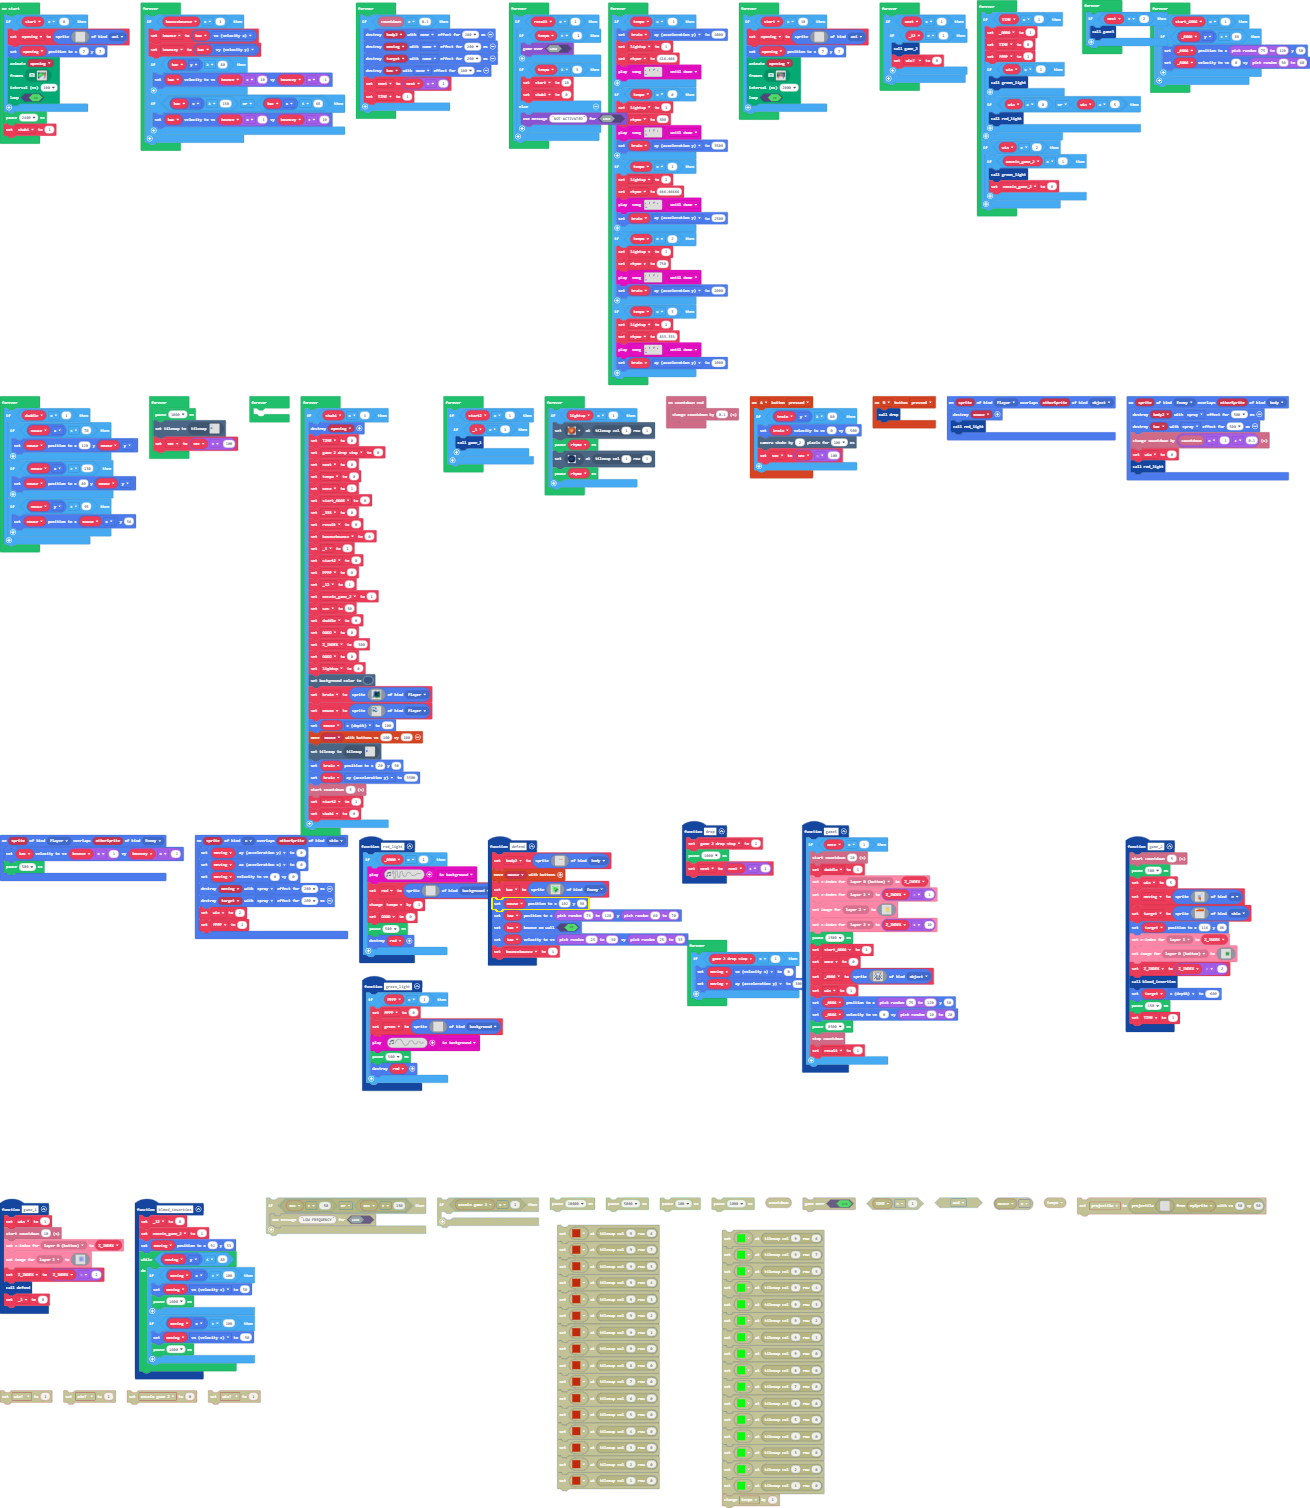
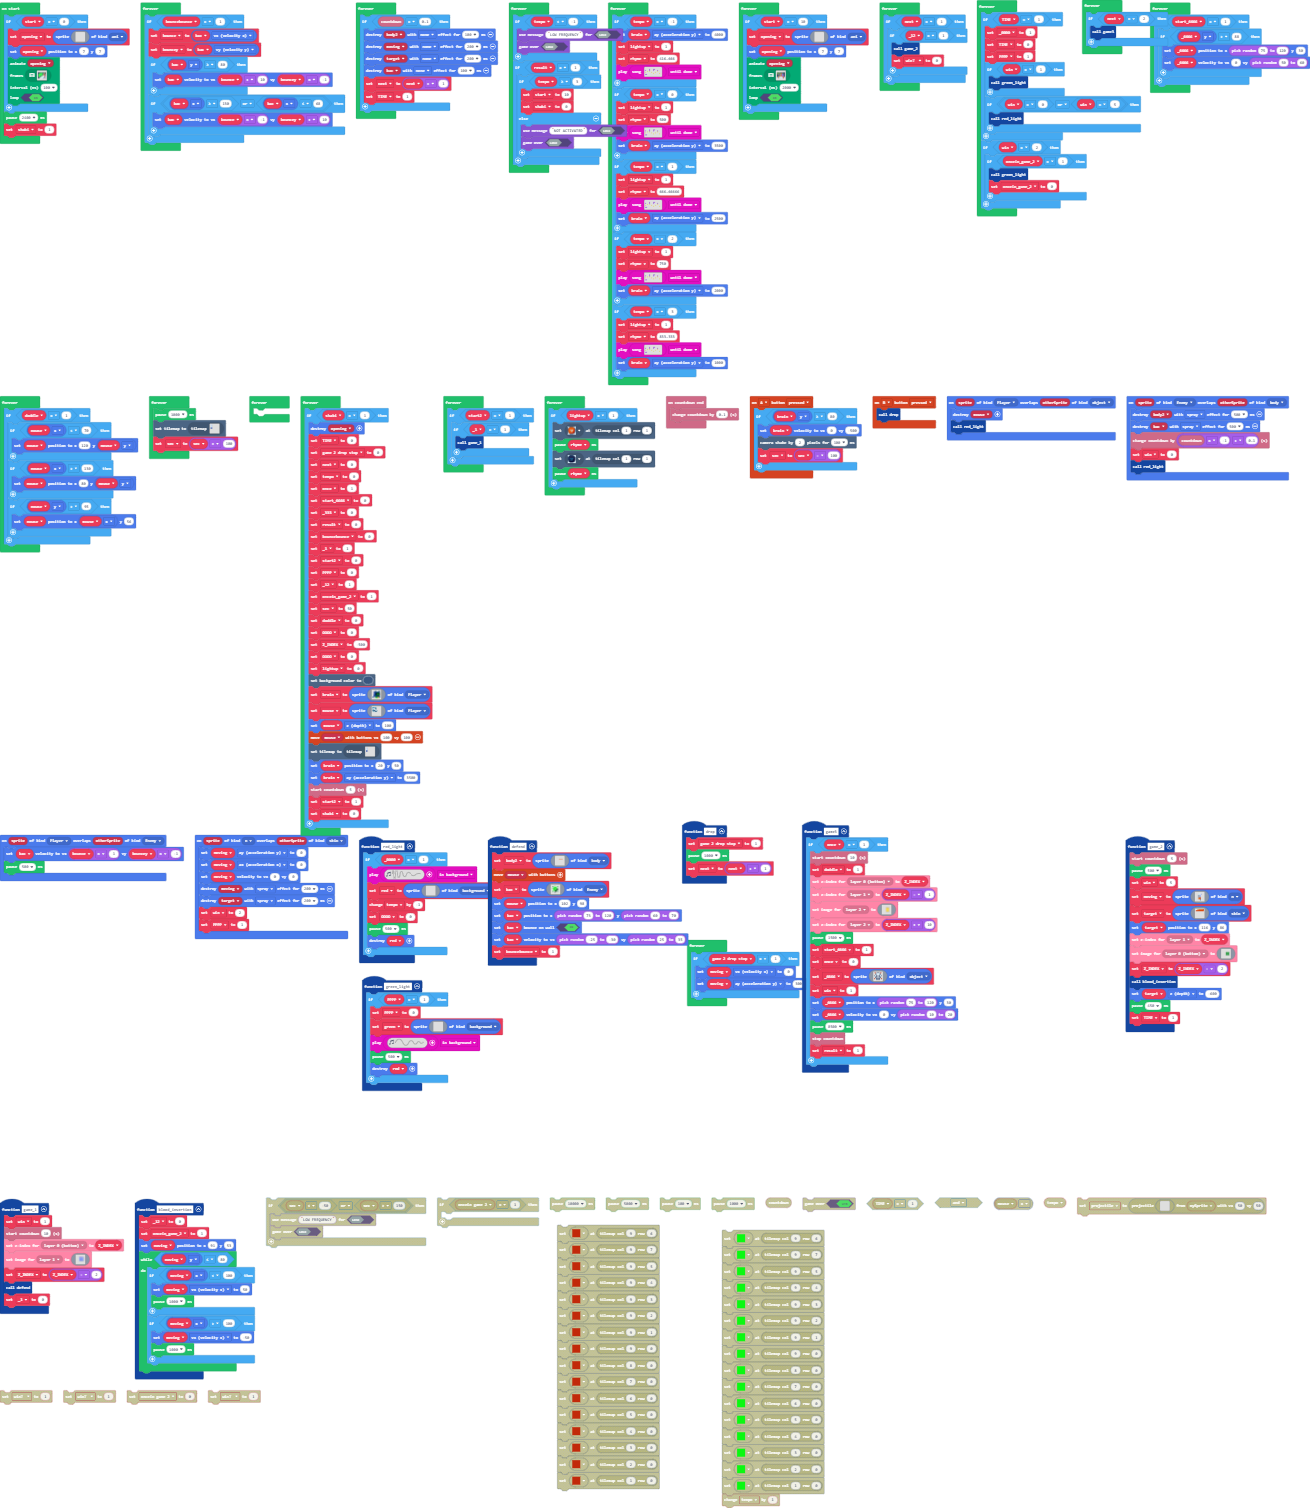
Update main.blocks, main.ts, tilemap.g.jres, tilemap.g.ts

Changed region(s): [[0.3664, 0.0, 0.4885, 0.1247], [0.1832, 0.8103, 0.3359, 0.8415]]

diff --git a/tilemap.g.ts b/tilemap.g.ts
@@ -654,6 +654,25 @@ namespace myTiles {
 . . . . . . . . . . . . . . . . 
 . . . . . . . . . . . . . . . . 
 `, [myTiles.transparency16], TileScale.Sixteen);
+            case "level30":
+            case "level30":return tiles.createTilemap(hex`1000100000000000000000000000000000000000000000000000000000000000000000000000000000000000000000000000000000000000000000000000000000000000000000000000000000000000000000000000000000000000000000000000000000000000000000000000000000000000000000000000000000000000000000000000000000000000000000000000000000000000000000000000000000000000000000000000000000000000000000000000000000000000000000000000000000000000000000000000000000000000000000000000000000000000000000000000000000000000000000000000000000000000000000000000000000000000`, img`
+. . . . . . . . . . . . . . . . 
+. . . . . . . . . . . . . . . . 
+. . . . . . . . . . . . . . . . 
+. . . . . . . . . . . . . . . . 
+. . . . . . . . . . . . . . . . 
+. . . . . . . . . . . . . . . . 
+. . . . . . . . . . . . . . . . 
+. . . . . . . . . . . . . . . . 
+. . . . . . . . . . . . . . . . 
+. . . . . . . . . . . . . . . . 
+. . . . . . . . . . . . . . . . 
+. . . . . . . . . . . . . . . . 
+. . . . . . . . . . . . . . . . 
+. . . . . . . . . . . . . . . . 
+. . . . . . . . . . . . . . . . 
+. . . . . . . . . . . . . . . . 
+`, [myTiles.transparency16], TileScale.Sixteen);
         }
         return null;
     })

diff --git a/main.ts b/main.ts
@@ -3593,15 +3593,17 @@ forever(function () {
     }
 })
 forever(function () {
+    if (tempo < -1) {
+        game.setGameOverMessage(false, "LOW FREQUENCY")
+        game.gameOver(false)
+    }
     if (result == 1) {
-        if (tempo < -1) {
-            game.gameOver(false)
-        }
         if (tempo >= 3) {
             start = 10
             shabi = 0
         } else {
             game.setGameOverMessage(false, "NOT ACTIVATED")
+            game.gameOver(false)
         }
     }
 })
